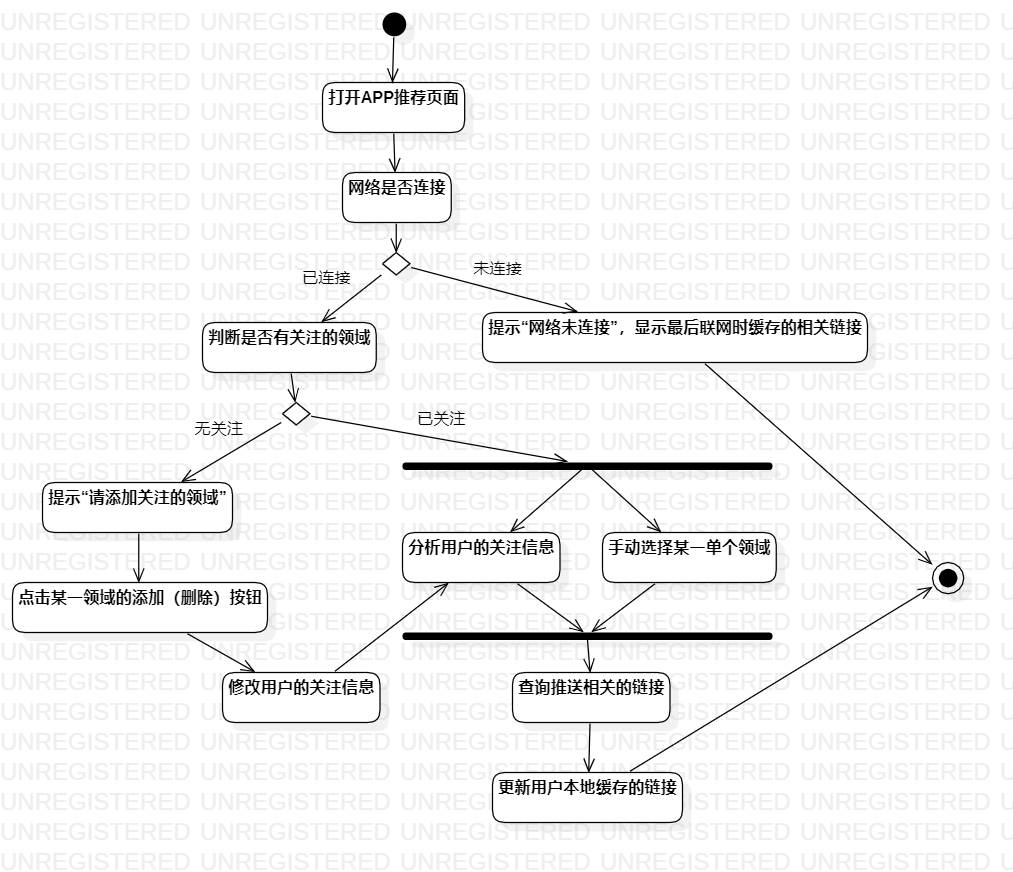
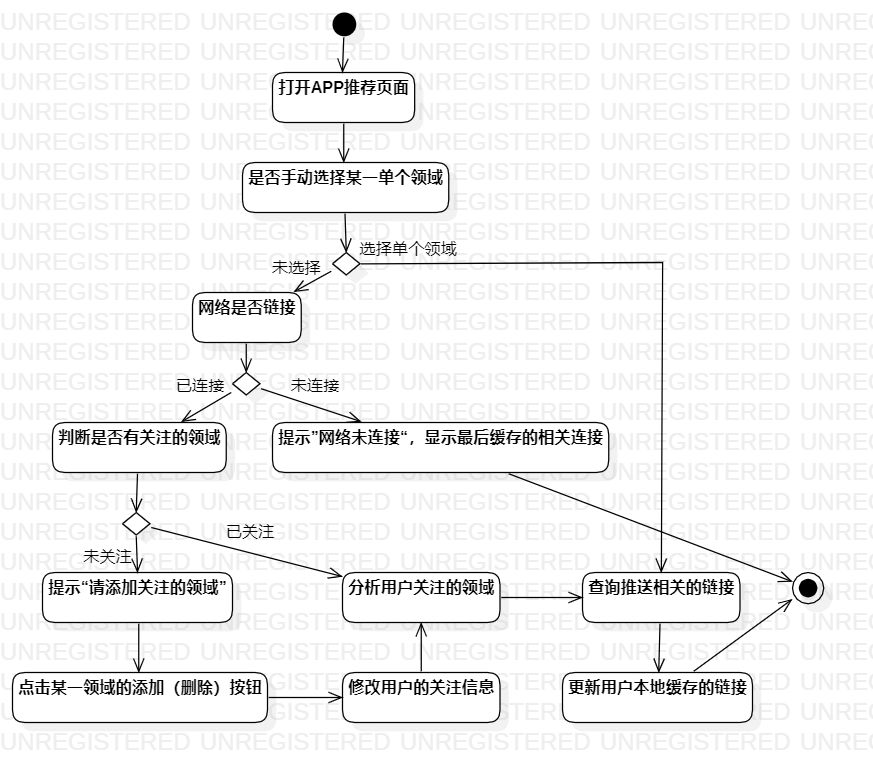
#4 #66 实验四：类建模

diff --git a/students/1714080902317/lab2.md b/students/1714080902317/lab2.md
@@ -43,7 +43,7 @@
 | 基本流程 | 1. 用户打开APP，保持后台运行。                      | 必要                       |
 | ~        | 2. 系统判断链接未被当前用户收藏。                   |                            |
 | ~        | 3. 系统查询该链接未被其它用户收藏。                 |                            |
-| ~        | 4. 使用爬虫爬取该链接的标题。                       |                            |
+| ~        | 4. 系统使用爬虫爬取该链接的标题。                   |                            |
 | ~        | 5. 用户编辑标签并提交。                             |                            |
 | ~        | 6. 系统插入该链接，搜索引擎创建索引，创建热门标签。 | 用例执行成功               |
 | 扩展流程 | 1.1 检测网络状态，无网络时提示“网络未连接”。        | 用例执行失败               |
@@ -75,8 +75,11 @@
 | 前置条件 | 链接收藏应用系统启动                                         |      |
 | 后置条件 | 用户已关注相关领域或用户手动选择浏览领域                     | 可选 |
 | 基本流程 | 1. 用户打开打开“推荐”页面。                                  | 可选 |
-| ~        | 2. 点击某一领域的添加（删除）按钮，修改用户的关注信息。      |      |
-| ~        | 3. 根据用户关注的领域查询并推送相关的链接，并更新用户本地缓存。 |      |
-| ~        | 4. 用户手动选择单个领域后，查询并推送该领域相关的热门链接，并更新用户本地缓存。 |      |
-| 扩展流程 | 1.1 若网络错误，提示“网络未连接”，显示最后联网时缓存的相关连接。 |      |
-|          | 3.1 用户未关注任何领域，提示“请添加关注的领域”。             |      |
+| ~        | 2. 用户未手动选择单个领域。                                  |      |
+| ~        | 3. 网络已连接，分析用户已关注相关领域，                      |      |
+| ~        | 4. 查询并推送相关的链接。                                    |      |
+| ~        | 5. 更新用户本地缓存。                                        |      |
+| 扩展流程 | 2.1 用户手动选择单个领域，执行第4步。                        |      |
+|          | 3.1 网络错误，提示“网络未连接”，显示最后联网时缓存的相关连接。 |      |
+|          | 3.2.1 用户未关注任何领域，提示“请添加关注的领域”。           |      |
+|          | 3.2.2 点击某一领域的添加（删除）按钮，修改用户的关注信息，执行第3步。 |      |

diff --git a/students/1714080902317/lab4.md b/students/1714080902317/lab4.md
@@ -1,0 +1,27 @@
+# 实验四：类建模
+
+## 实验目标
+
+1. 掌握类建模方法；
+2. 了解MVC或你熟悉的设计模式；
+3. 掌握类图的画法。（Class Diagram）
+
+## 实验内容
+
+1. 基于MVC模式设计类；
+2. 设计类的关系；
+3. 画出类图。
+
+## 实验步骤
+
+### 1.复制链接并收藏的类图
+
+![class diagram 01](../1714080902317/class diagram 01.png)
+
+### 2.搜索相关链接的类图
+
+![class diagram 02](../1714080902317/class diagram 02.png)
+
+### 3.浏览推荐的链接的类图
+
+![class diagram 03](../1714080902317/class diagram 03.png)
